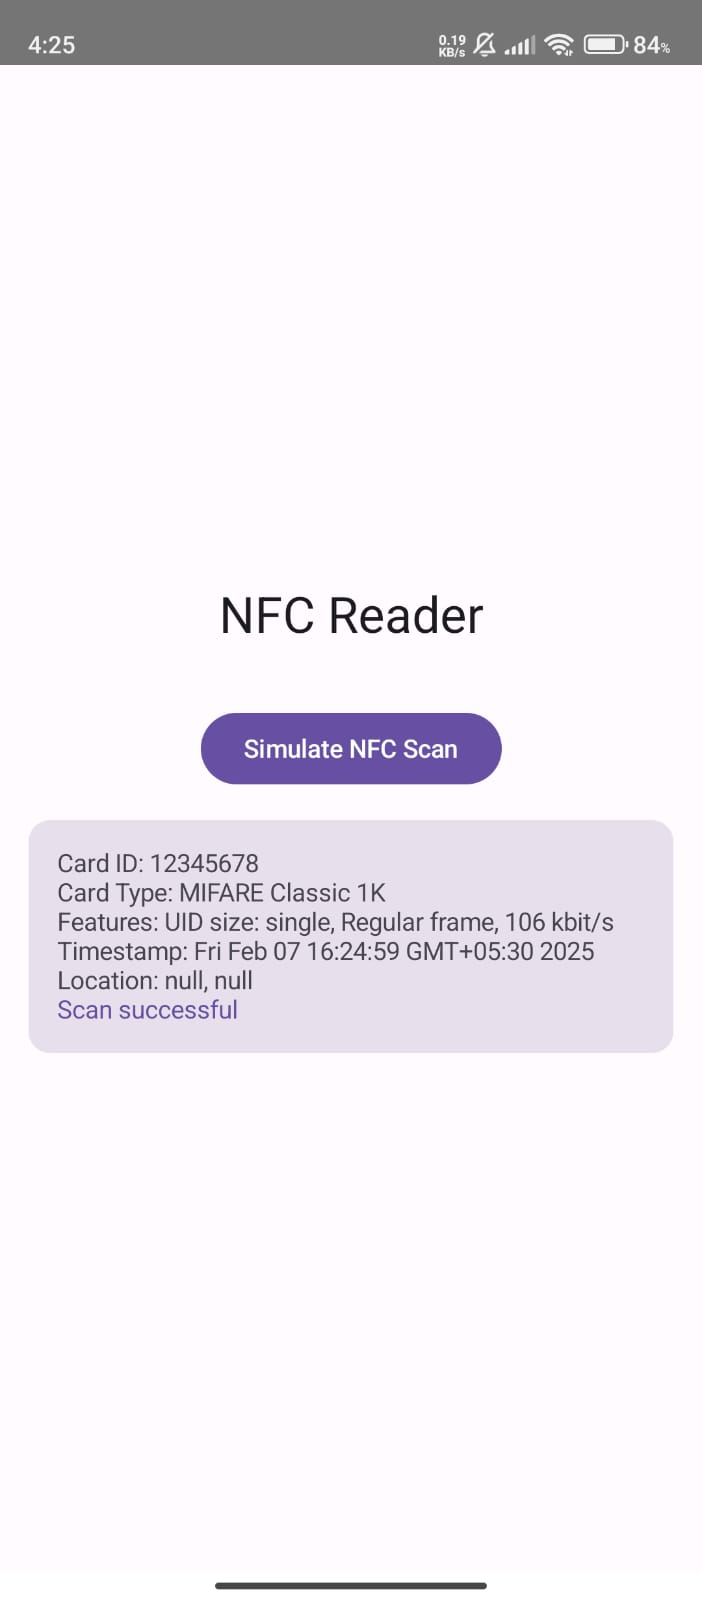
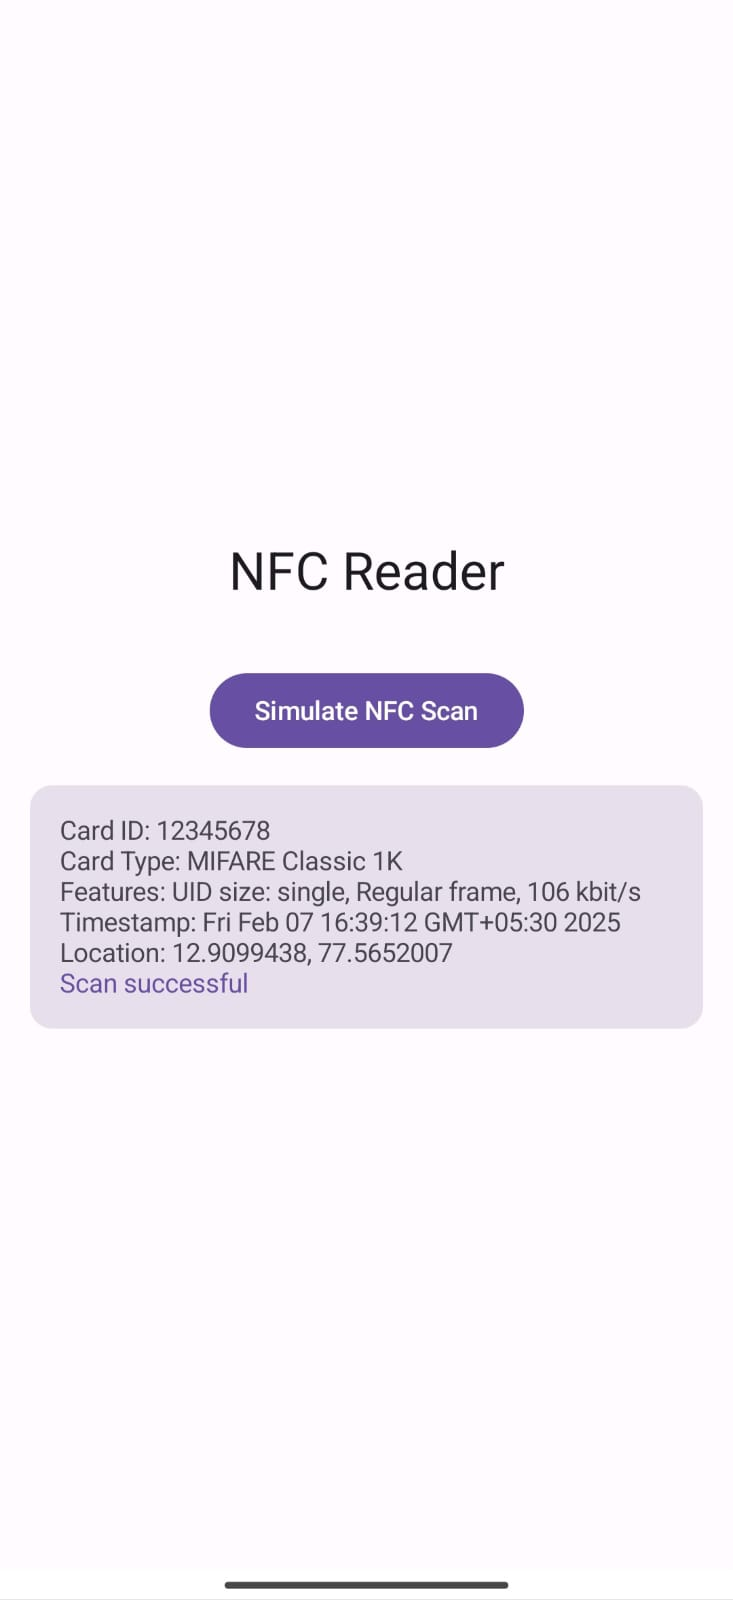
location update fixed

Changed region(s): [[0.0299, 0.3438, 0.9573, 0.6562], [0.0, 0.0, 1.0, 0.0625]]

diff --git a/app/src/main/java/com/hustle/nfcclient/MainApp.kt b/app/src/main/java/com/hustle/nfcclient/MainApp.kt
@@ -1,19 +1,21 @@
 package com.hustle.nfcclient
 
-
-
+import android.content.Context
 import androidx.compose.foundation.layout.*
 import androidx.compose.material3.*
 import androidx.compose.runtime.*
 import androidx.compose.ui.Alignment
 import androidx.compose.ui.Modifier
+import androidx.compose.ui.platform.LocalContext
 import androidx.compose.ui.unit.dp
+import com.google.android.gms.location.LocationServices
 import com.hustle.nfcclient.network.NFCCardInfo
 import com.hustle.nfcclient.network.NFCViewModel
 
 @Composable
 fun NFCReaderApp(viewModel: NFCViewModel) {
     val scanResult by viewModel.scanResult.collectAsState()
+    val context = LocalContext.current // Get the current Context
 
     Surface(
         modifier = Modifier.fillMaxSize(),
@@ -41,7 +43,11 @@ fun NFCReaderApp(viewModel: NFCViewModel) {
                         cardType = "MIFARE Classic 1K",
                         features = "UID size: single, Regular frame, 106 kbit/s"
                     )
-                    viewModel.processNFCTag(testCardInfo, null) // No location data
+
+                    val fusedLocationClient = LocationServices.getFusedLocationProviderClient(context)
+                    fusedLocationClient.lastLocation.addOnSuccessListener { location ->
+                        viewModel.processNFCTag(testCardInfo, location)
+                    }
                 }
             ) {
                 Text("Simulate NFC Scan")
